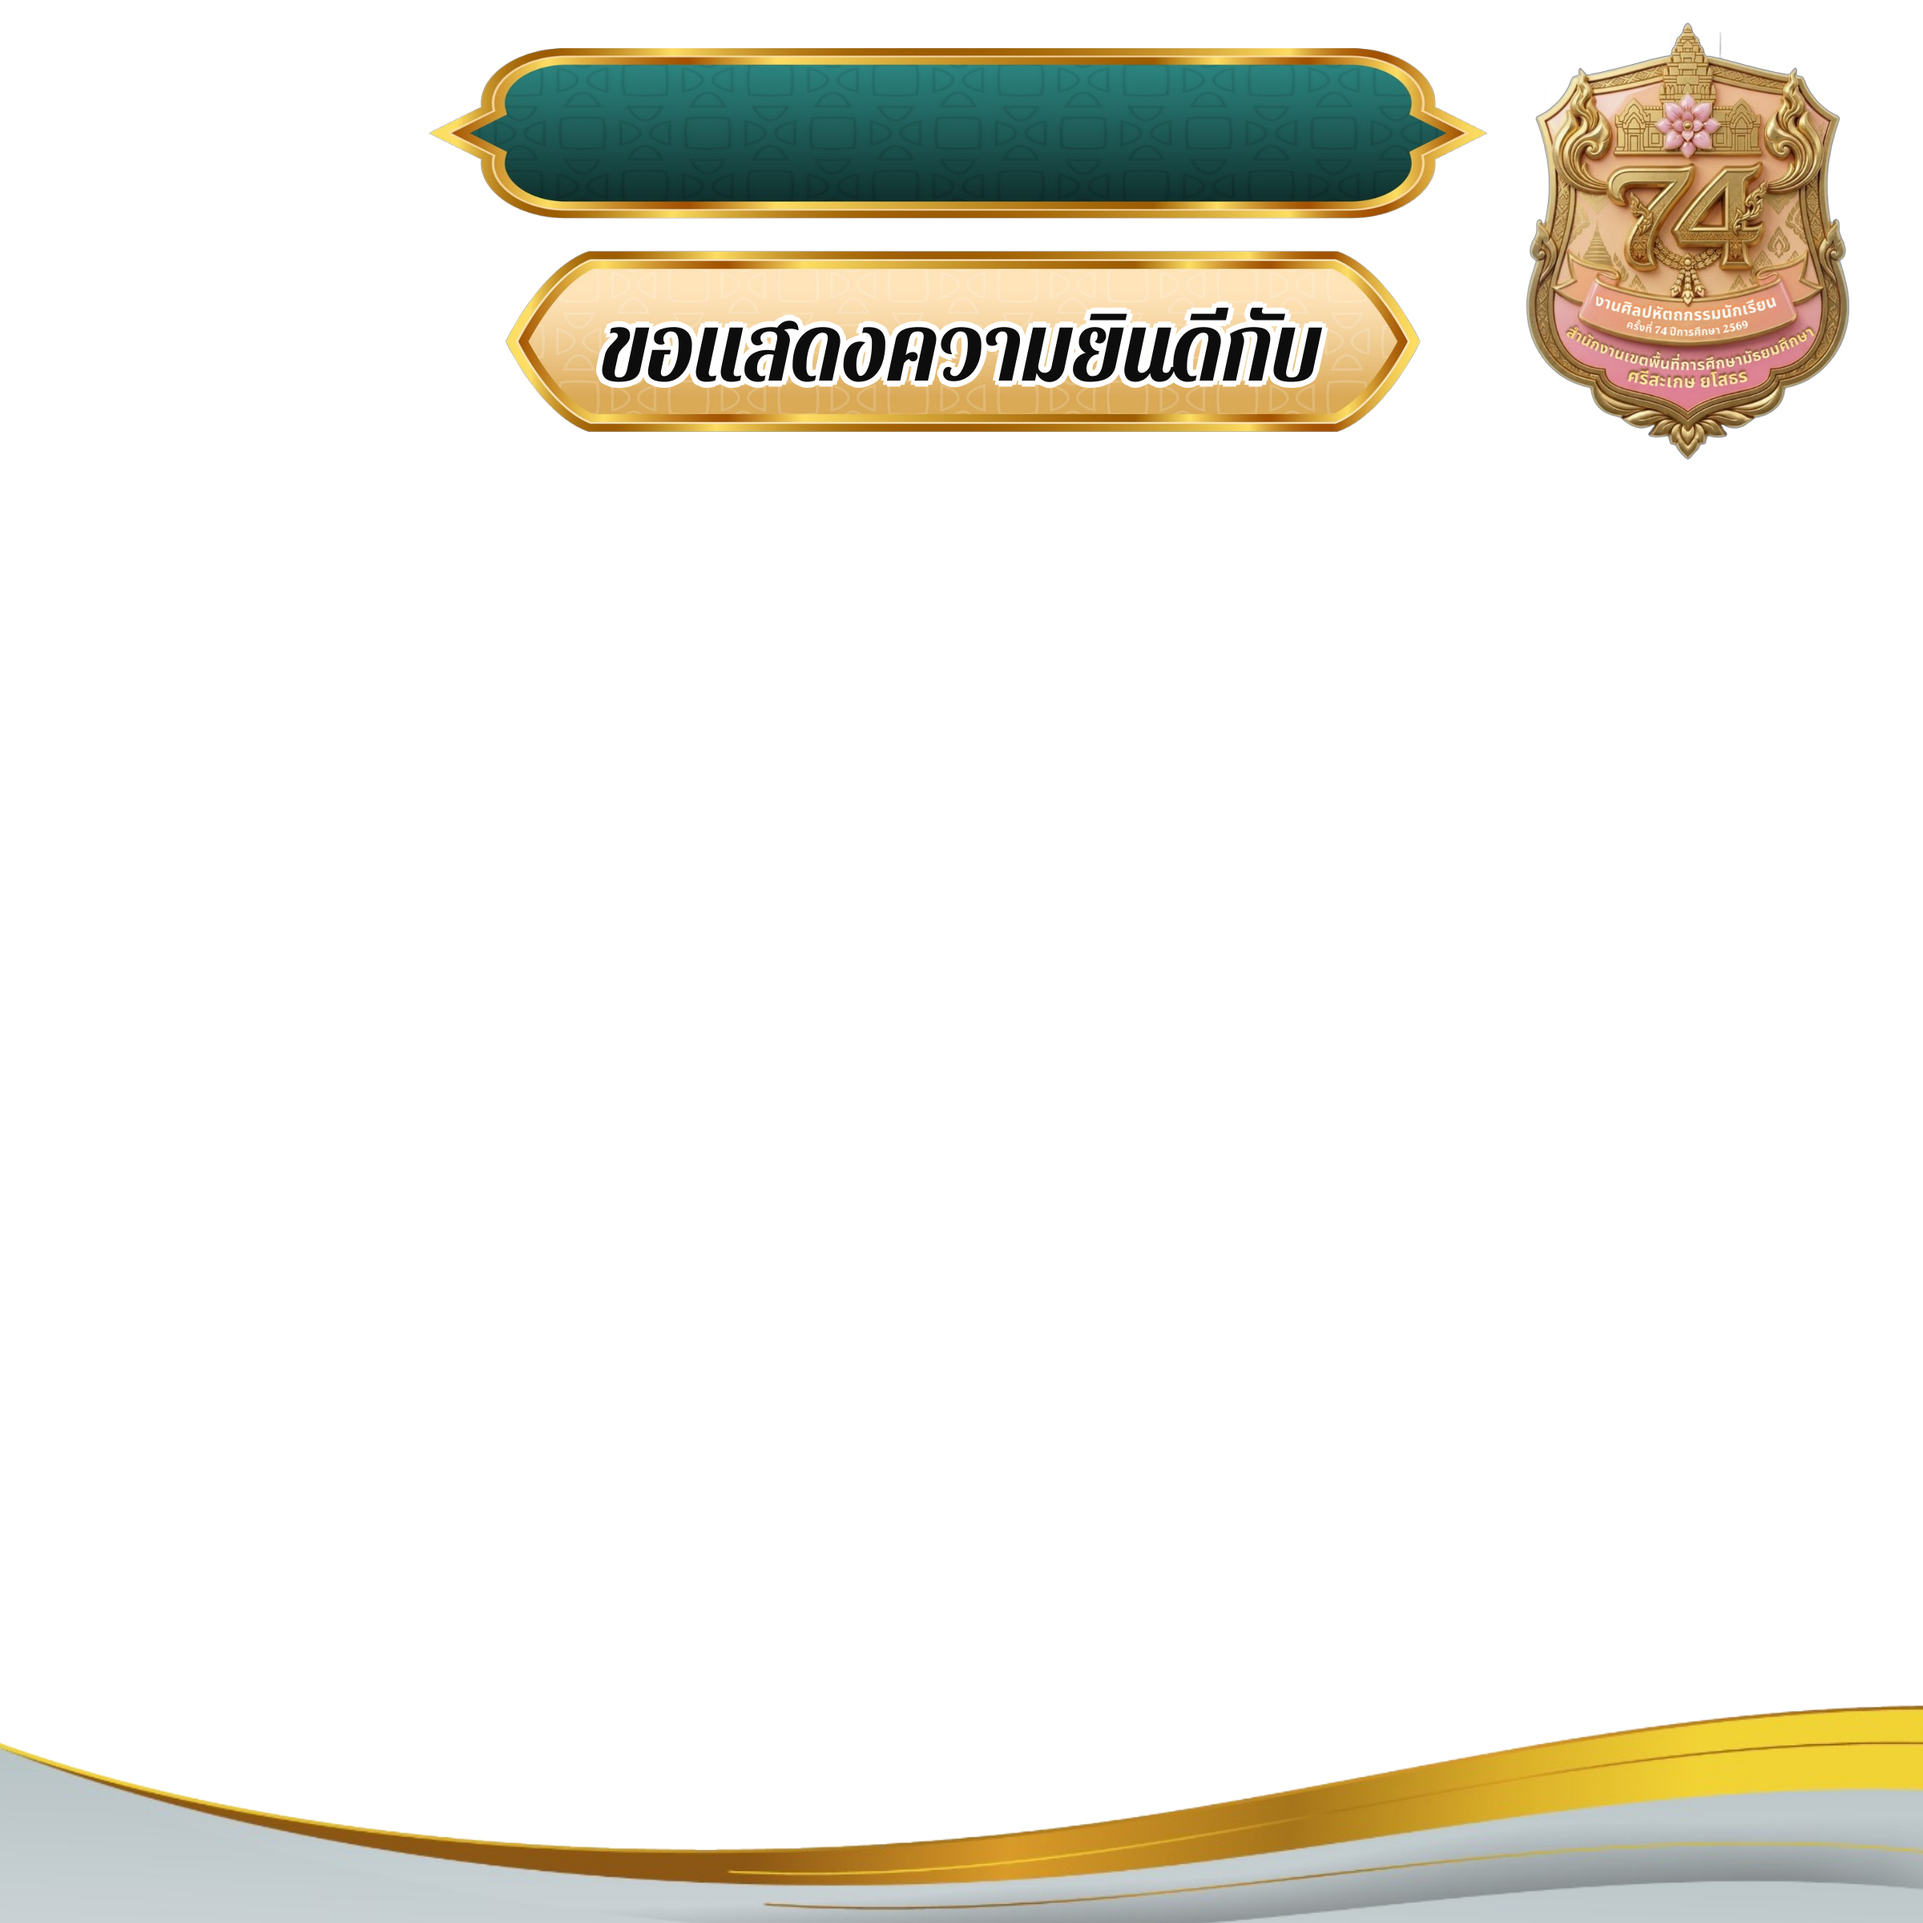
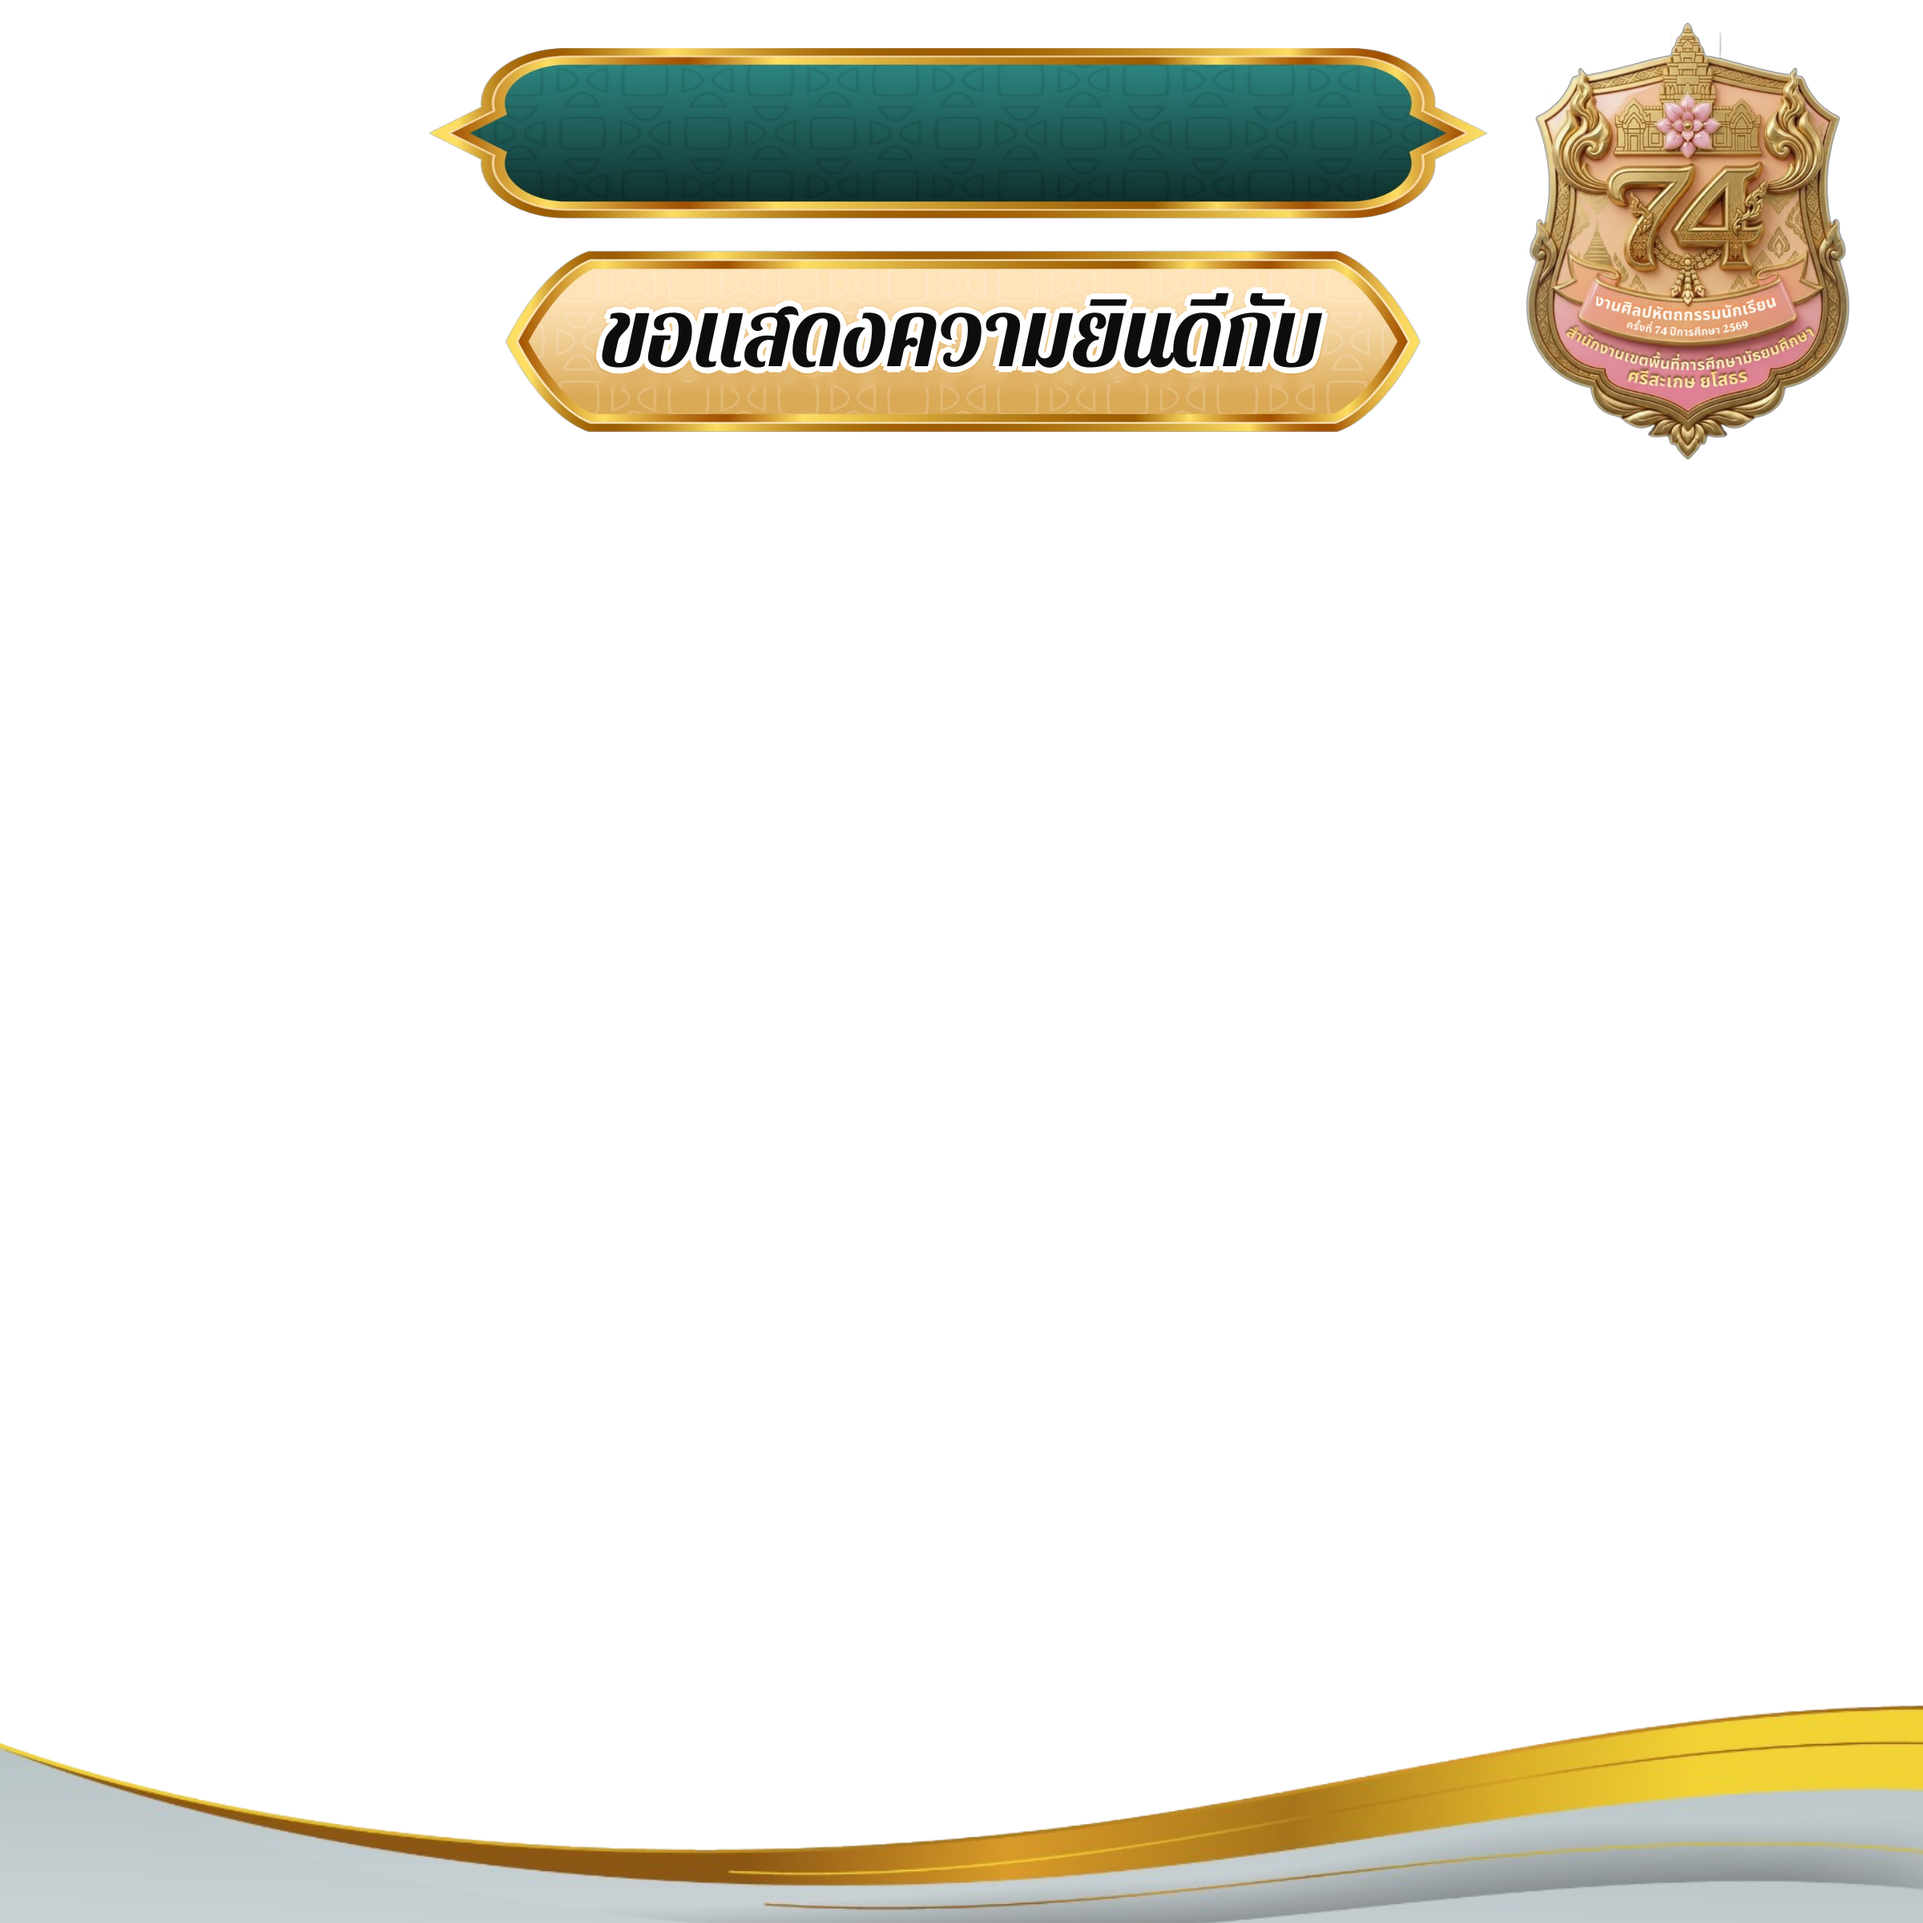
ภาพแสดงความยินดี: จัดชื่อโรงเรียนและ 'ขอแสดงความยินดีกับ' ให้อยู่กึ่งกลางแนวตั้งของป้าย
Claude-Session: https://claude.ai/code/session_01YaEH6FZdq6go8nsu7drBUB

Changed region(s): [[0.3125, 0.125, 0.6875, 0.2188]]

diff --git a/js/render.js b/js/render.js
@@ -32,6 +32,11 @@ const R = (() => {
   function drawText(ctx, text, x, y, o) {
     font(ctx, o.family, o.size, o.weight);
     ctx.textAlign = 'center'; ctx.textBaseline = 'middle';
+    if (o.box) {   // จัดกึ่งกลางแนวตั้งตามขอบตัวอักษรจริง (รวมสระบน-ล่าง)
+      ctx.textBaseline = 'alphabetic';
+      const m = ctx.measureText(text);
+      y = y + (m.actualBoundingBoxAscent - m.actualBoundingBoxDescent) / 2;
+    }
     if (o.shadow) { ctx.save(); ctx.shadowColor = o.shadow; ctx.shadowBlur = o.size * 0.12; ctx.shadowOffsetX = ctx.shadowOffsetY = o.size * 0.06; }
     if (o.stroke) { ctx.lineJoin = 'round'; ctx.miterLimit = 2; ctx.lineWidth = o.strokeW; ctx.strokeStyle = o.stroke; ctx.strokeText(text, x, y); }
     if (o.shadow) ctx.restore();
@@ -85,7 +90,7 @@ const R = (() => {
     await fontsReady();
     const S = canvas.width, k = S / T;
     const ctx = canvas.getContext('2d');
-    const [bg, fg] = await Promise.all([loadImg('assets/congrats_bg.png'), loadImg('assets/congrats_fg.png')]);
+    const [bg, fg] = await Promise.all([loadImg('assets/congrats_bg.png'), loadImg('assets/congrats_fg.png?v=2')]);
     ctx.clearRect(0, 0, S, S);
     ctx.drawImage(bg, 0, 0, S, S);
     const u = v => v * k;
@@ -144,7 +149,7 @@ const R = (() => {
     ctx.drawImage(fg, 0, 0, S, S);
 
     // ชื่อโรงเรียนบนป้ายเขียว
-    drawText(ctx, cfg.school, u(CX), u(44), {
+    drawText(ctx, cfg.school, u(CX), u(50), { box: true,
       family: 'Pattaya', size: u(fitSize(ctx, [cfg.school], 'Pattaya', 30, 400, 360)),
       color: '#ffffff', stroke: '#005426', strokeW: u(5), shadow: 'rgba(0,0,0,.45)',
     });
